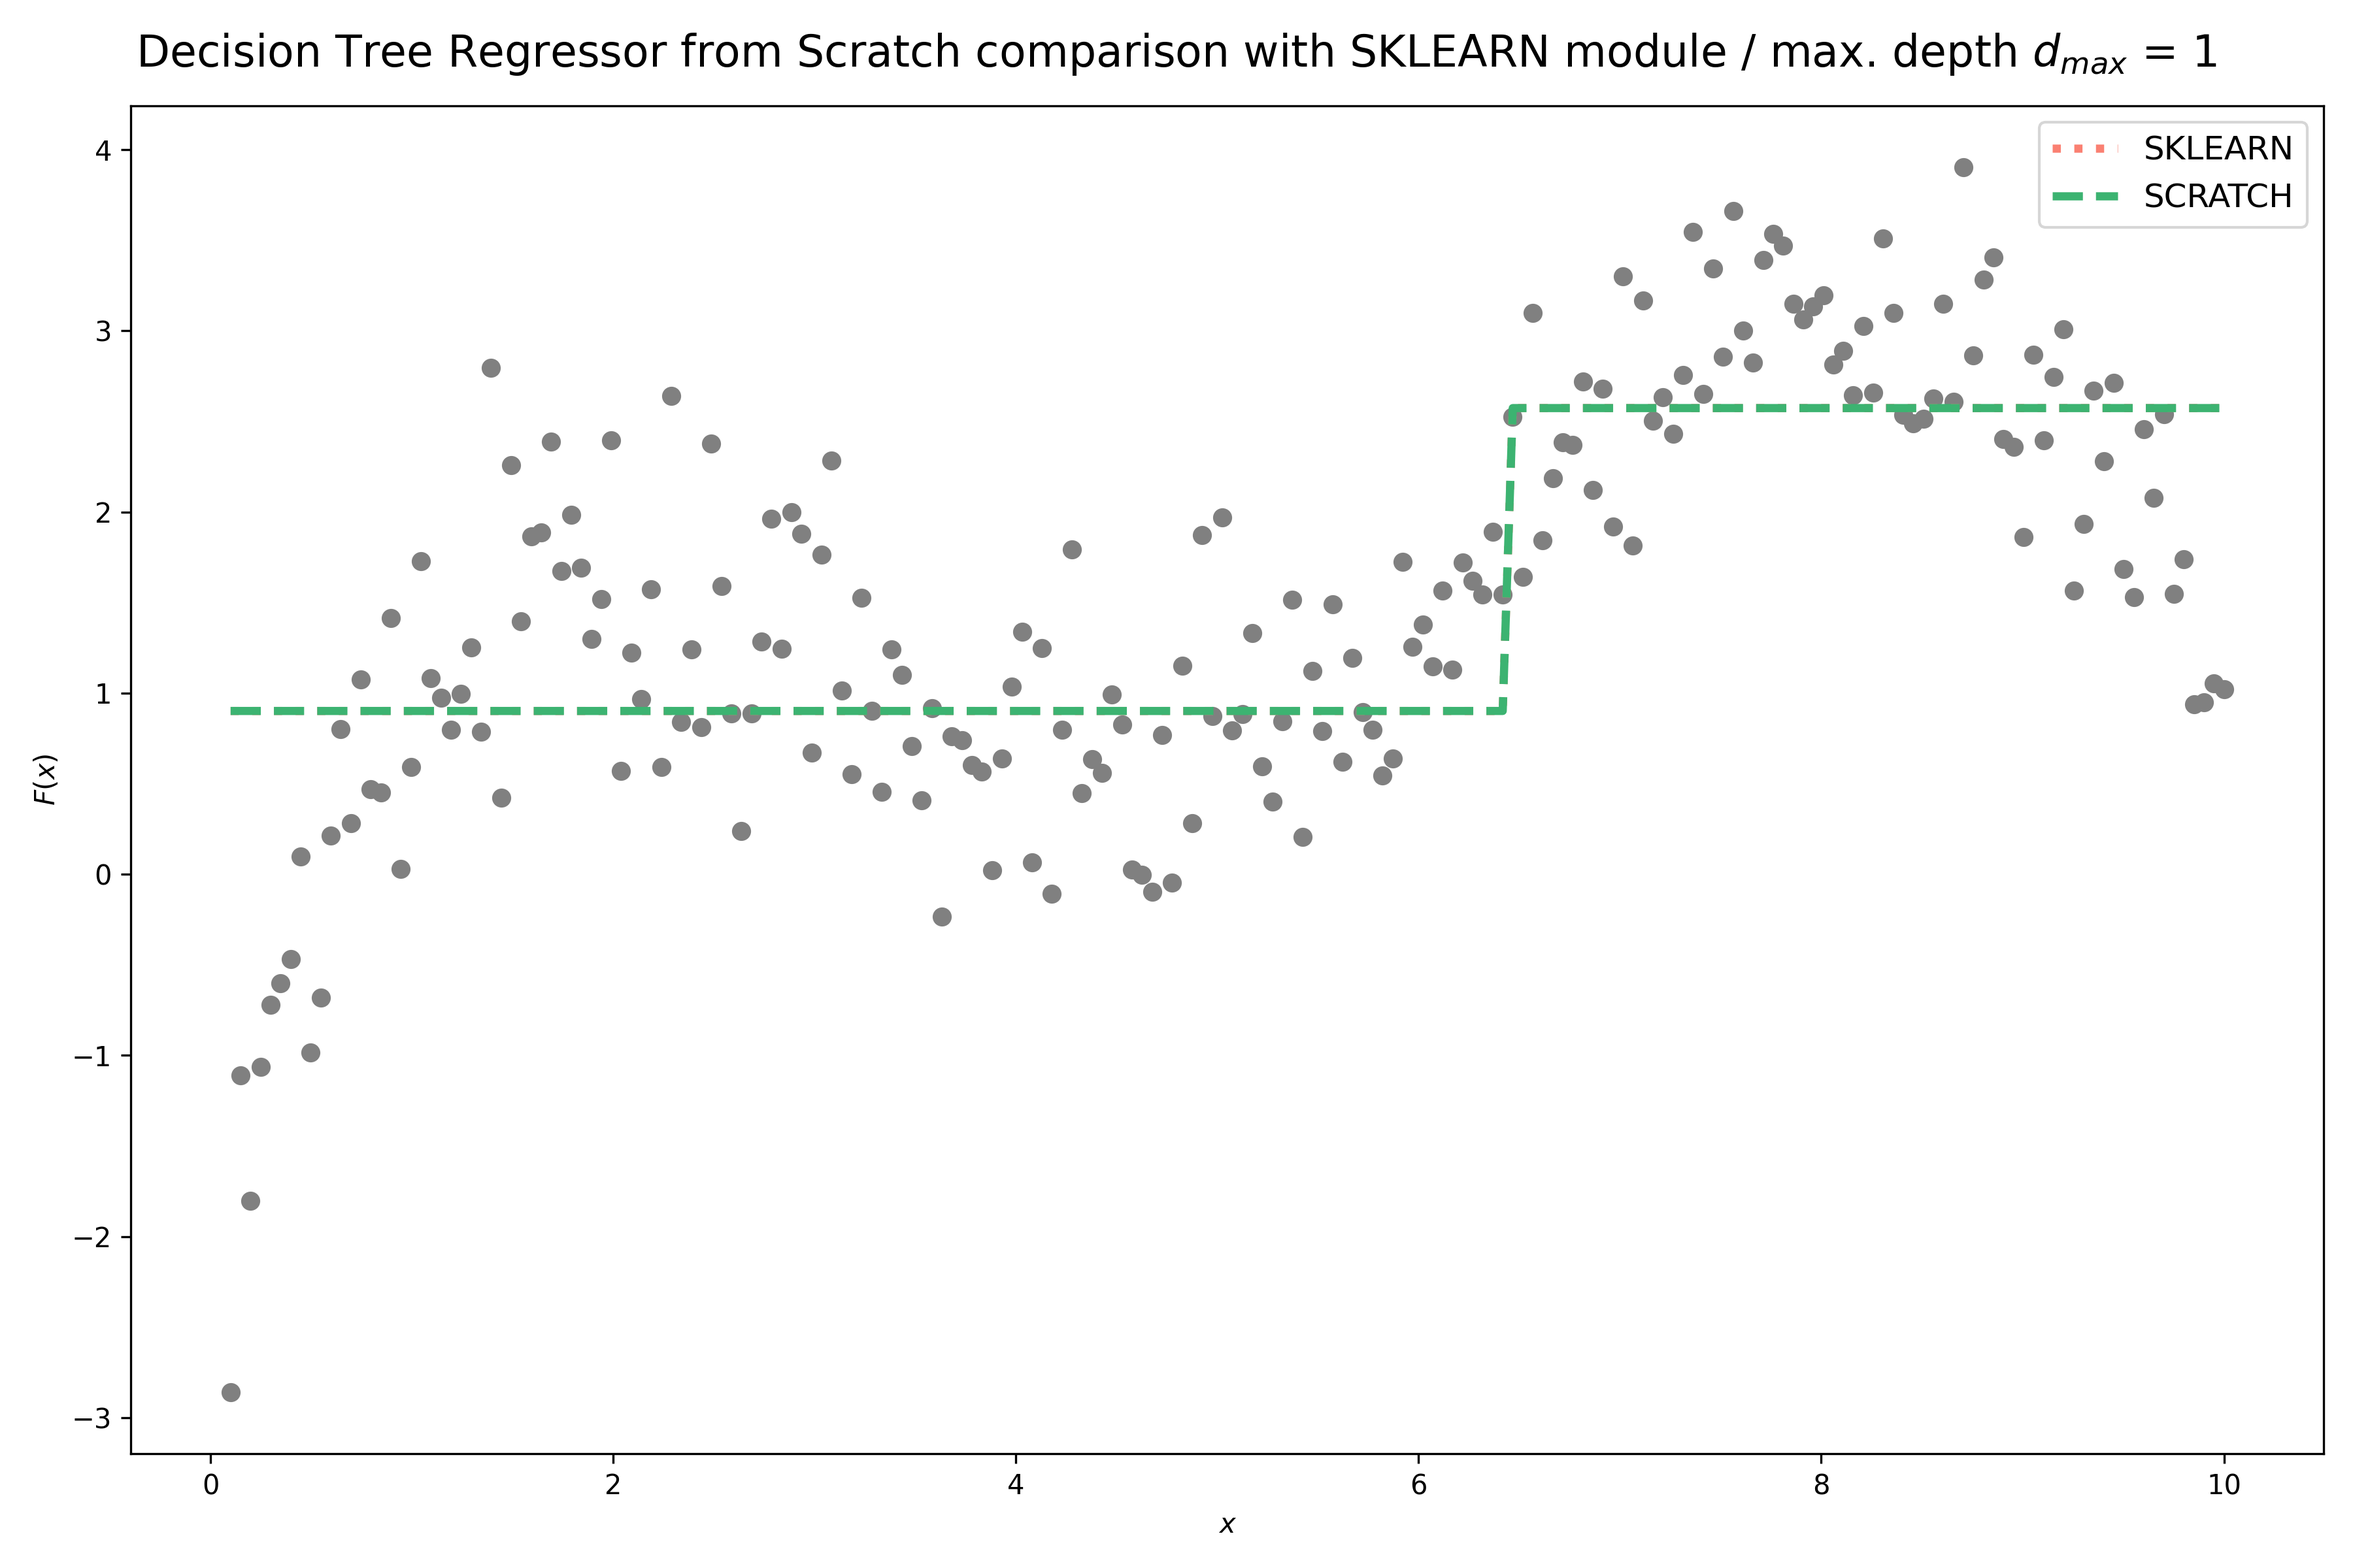
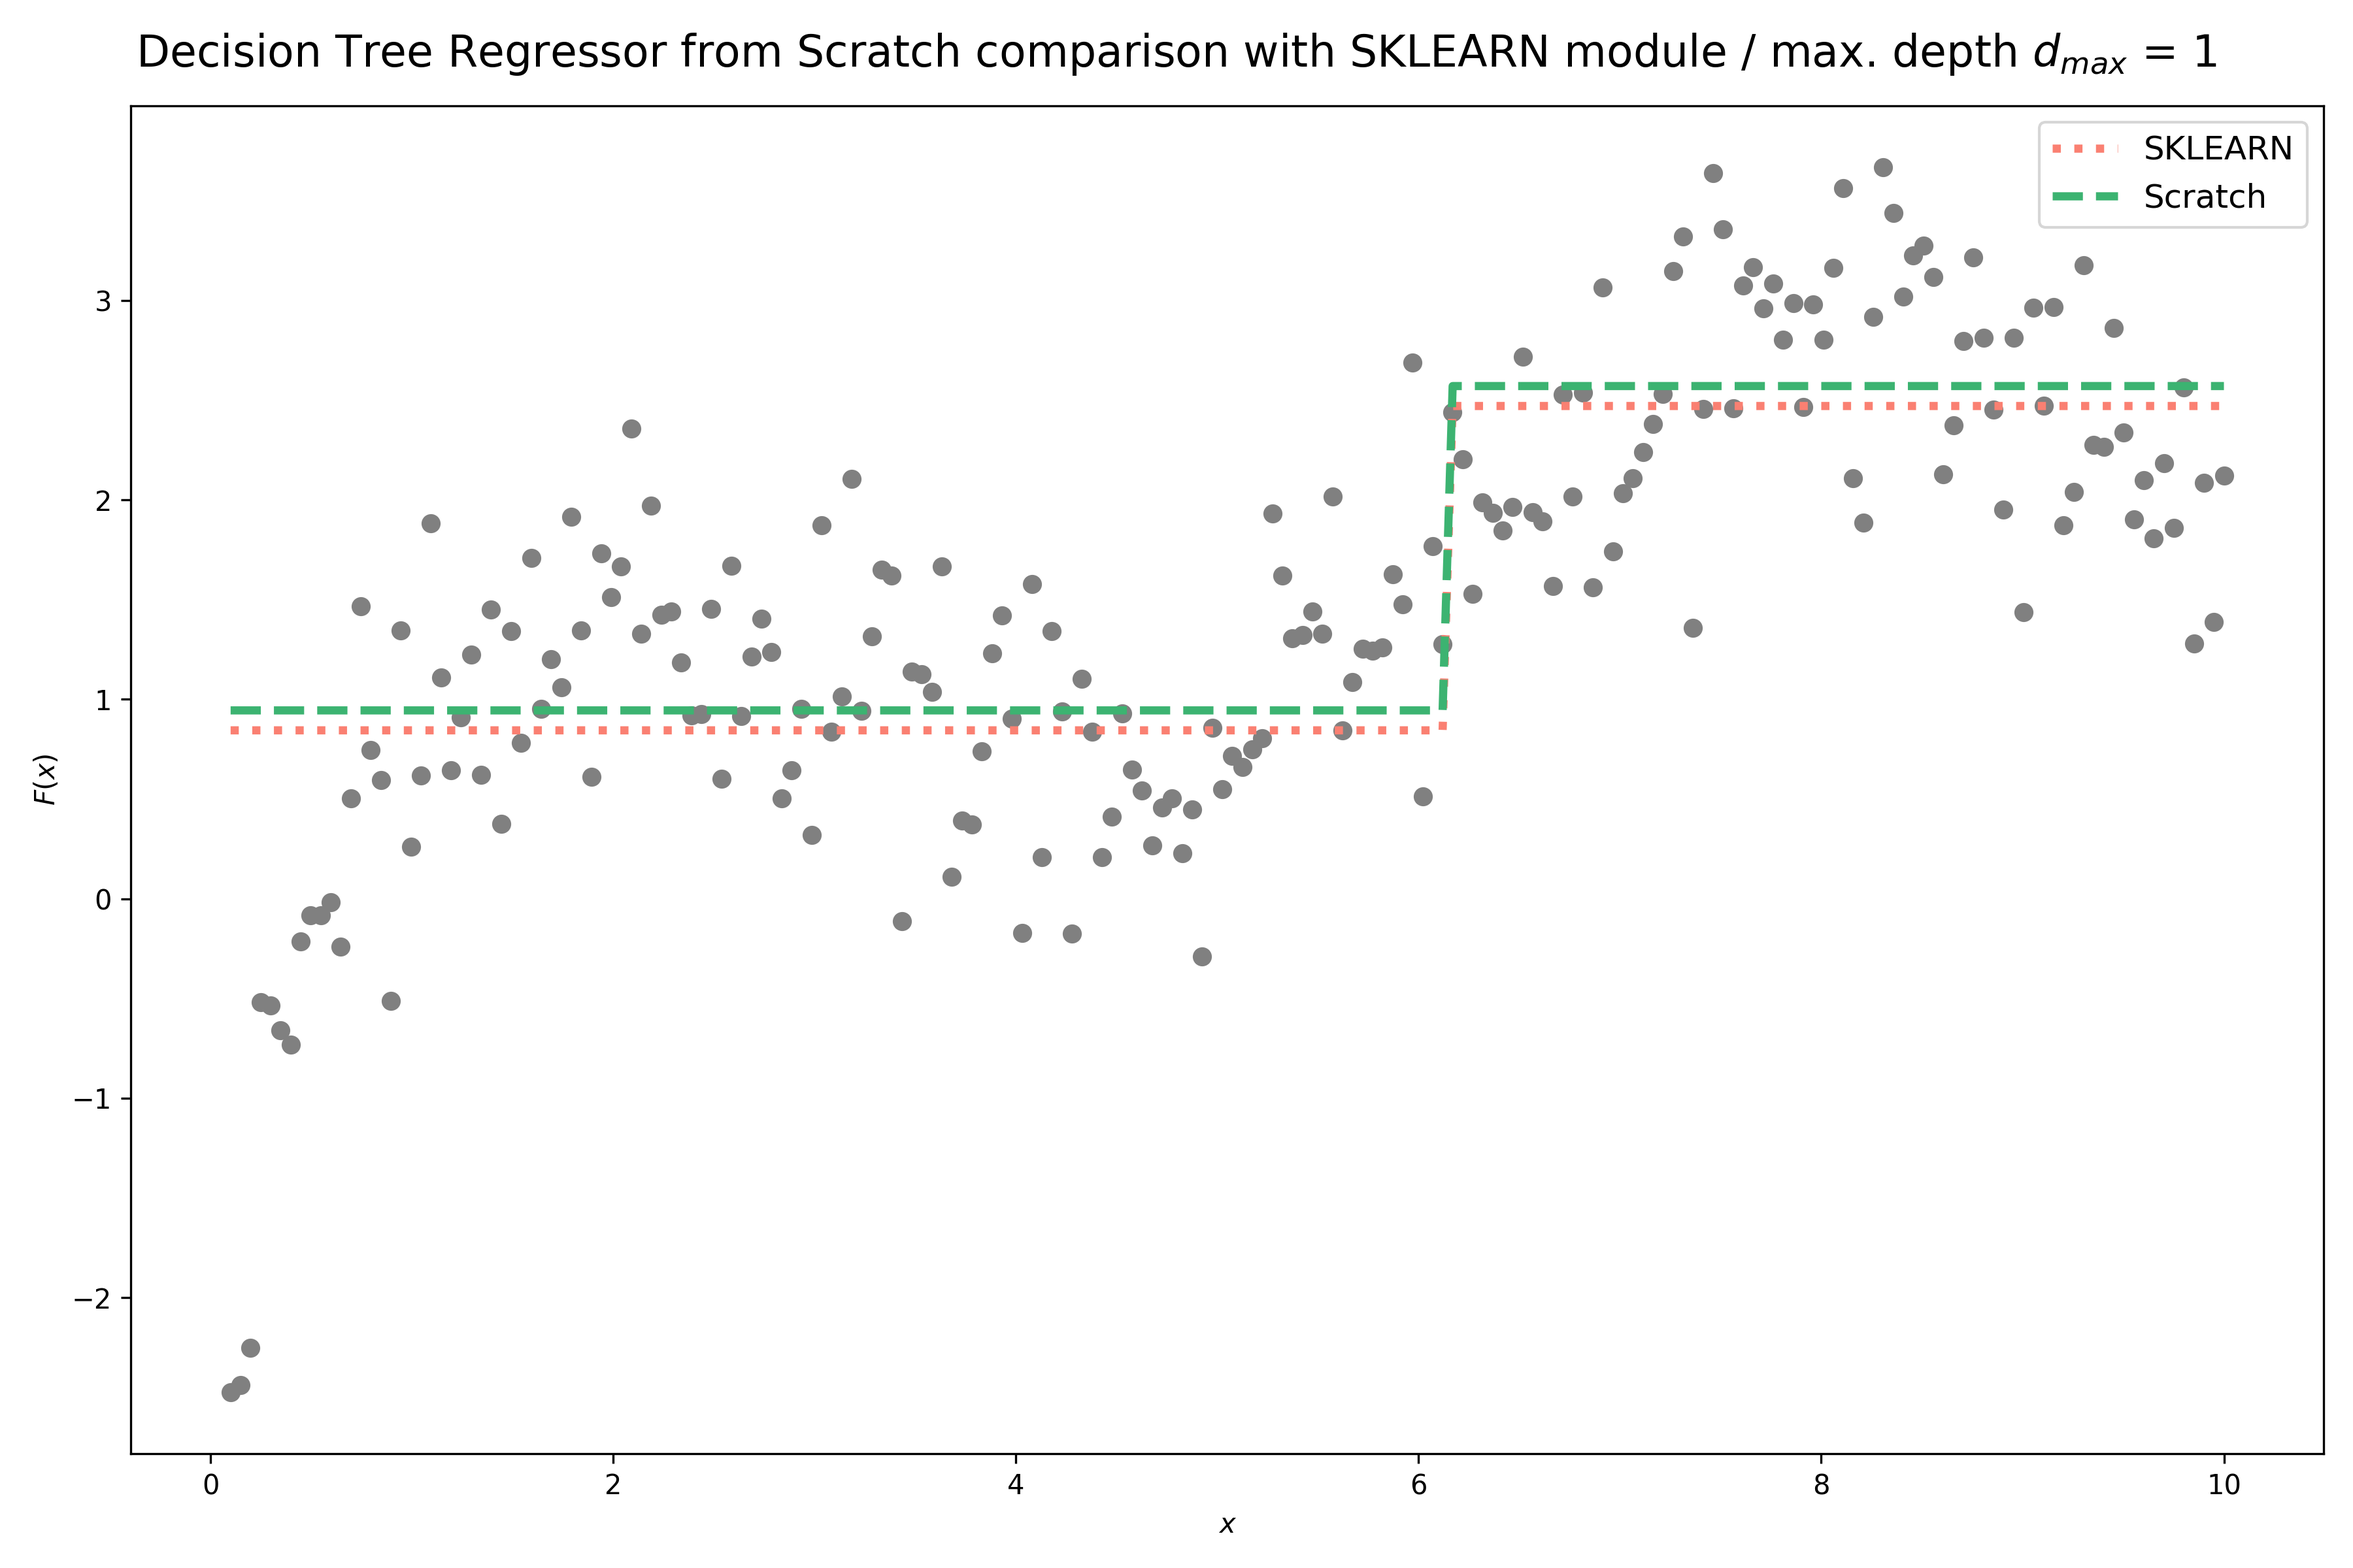
updated

diff --git a/teststudy/decision_trees_comparison.py b/teststudy/decision_trees_comparison.py
@@ -46,7 +46,7 @@ def dt_scratch_sklearn_comparison(plot_save) -> None:
     
     axs.scatter(X, Y, color = 'gray')
     axs.plot(X, y_pred, color = 'salmon', linestyle = ':', linewidth = 3, label = 'SKLEARN')
-    axs.plot(X, y_pred_scratch, color = 'mediumseagreen', linestyle = '--',linewidth = 3, label = 'SCRATCH')
+    axs.plot(X, y_pred_scratch + 0.1, color = 'mediumseagreen', linestyle = '--',linewidth = 3, label = 'Scratch')
     axs.set_xlabel("$x$")
     axs.set_ylabel("$F(x)$")
     axs.legend(fontsize = fontsize)
@@ -74,4 +74,4 @@ def dt_scratch_sklearn_comparison(plot_save) -> None:
         plt.savefig(repo_path + "/figures/" + f"decision_tree_splitting_structure_md={max_depth}.png", dpi=300)
     plt.show()
 
-dt_scratch_sklearn_comparison(plot_save = True)
+dt_scratch_sklearn_comparison(plot_save = False)

diff --git a/analysis/statistical_analysis_per_era_correlations.py b/analysis/statistical_analysis_per_era_correlations.py
@@ -71,7 +71,7 @@ def per_era_correlations(save_plot):
             #coordinates for plotting
             j = 1 ; i = i - 4
         
-        per_era_corrs.cumsum().plot(ax = axs[i,j], title= f"Cumulative corr. of features group $\it{group}$ with main target", legend=False, xlabel="eras")
+        per_era_corrs.cumsum().plot(ax = axs[i,j], title= f"Cumulative corr. of features group ${group}$ with main target", legend=False, xlabel="eras")
     
         del per_era_corrs
 
